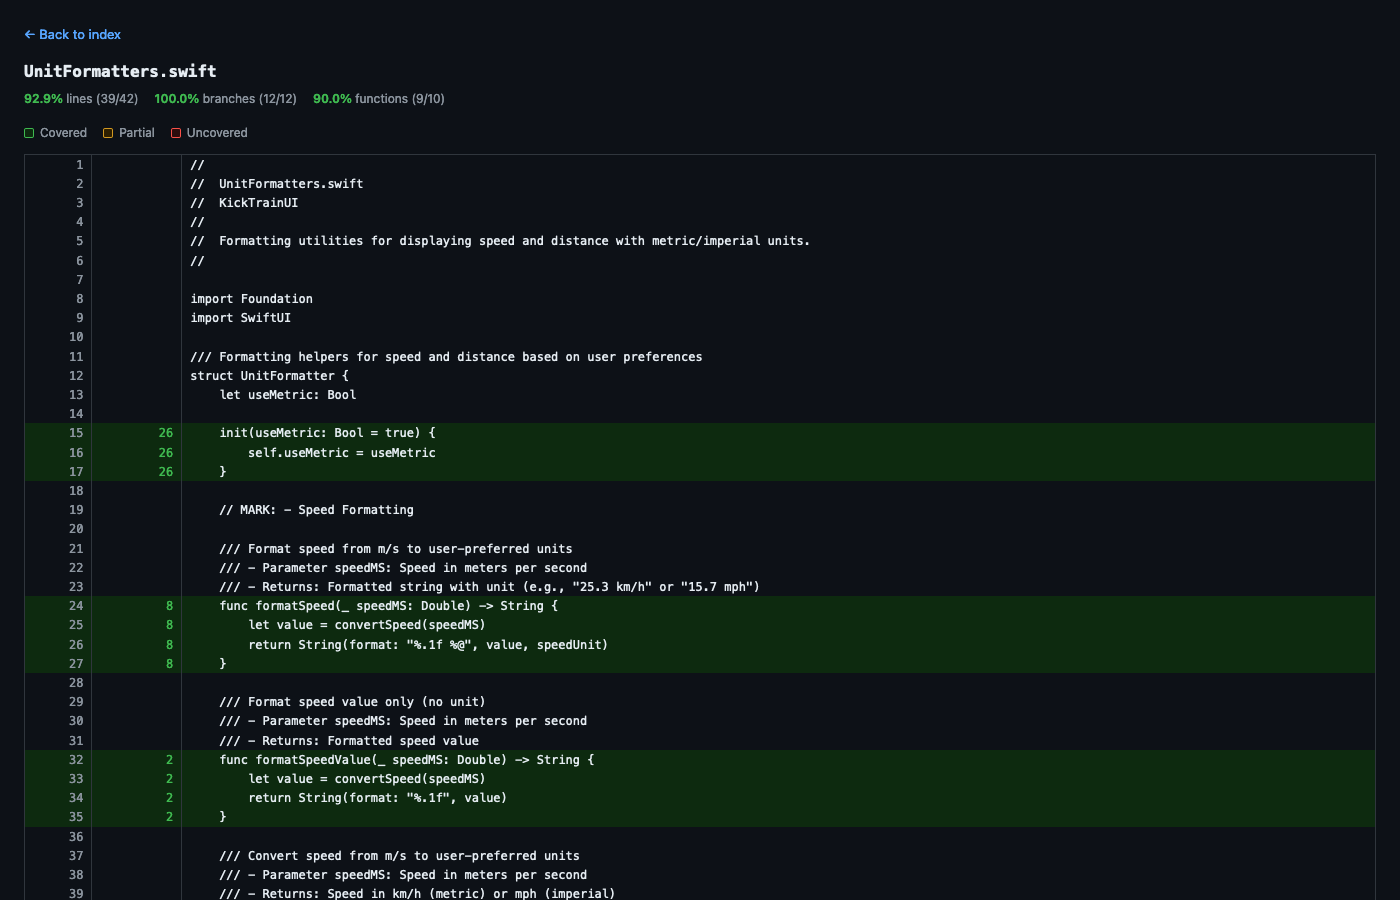
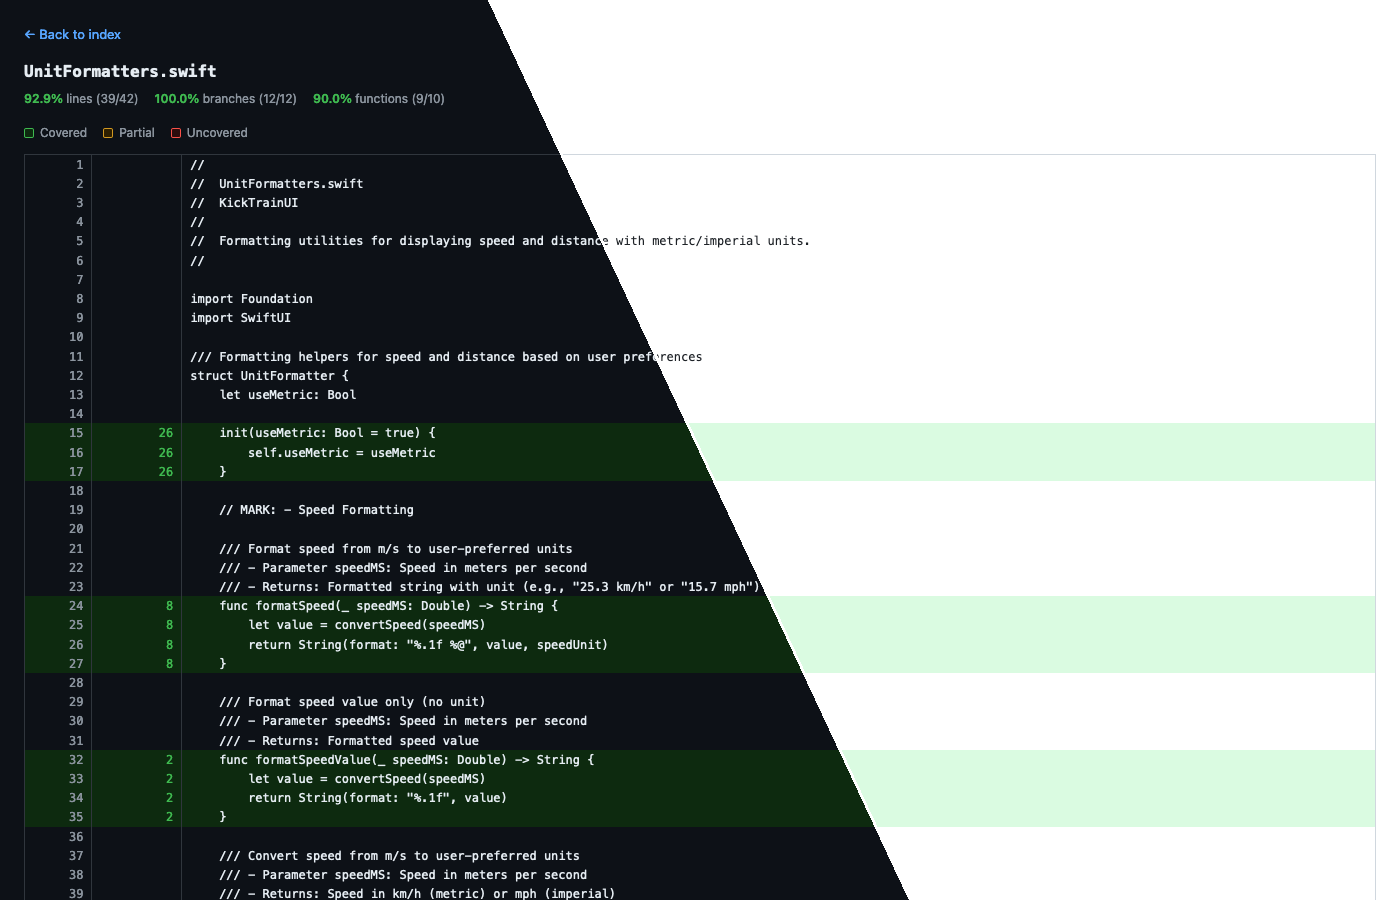
Add light mode support; update screenshots with dark/light diagonal composites

diff --git a/Sources/fullcoverage/Resources/style.css b/Sources/fullcoverage/Resources/style.css
@@ -6,18 +6,32 @@
   --border: #30363d;
   --text: #e6edf3;
   --muted: #8b949e;
-  --green: #238636;
   --green-bg: #0d2a0f;
   --green-text: #3fb950;
-  --yellow: #9e6a03;
   --yellow-bg: #2d1f00;
   --yellow-text: #d29922;
-  --red: #da3633;
   --red-bg: #2d0d0d;
   --red-text: #f85149;
   --link: #58a6ff;
   --font-mono: ui-monospace, SFMono-Regular, "SF Mono", Menlo, Consolas, monospace;
   --font-sans: -apple-system, BlinkMacSystemFont, "Segoe UI", Helvetica, Arial, sans-serif;
+}
+
+@media (prefers-color-scheme: light) {
+  :root {
+    --bg: #ffffff;
+    --surface: #f6f8fa;
+    --border: #d0d7de;
+    --text: #1f2328;
+    --muted: #656d76;
+    --green-bg: #dafbe1;
+    --green-text: #1a7f37;
+    --yellow-bg: #fff8c5;
+    --yellow-text: #9a6700;
+    --red-bg: #ffebe9;
+    --red-text: #d1242f;
+    --link: #0969da;
+  }
 }
 
 body {
@@ -183,11 +197,11 @@ a:hover { text-decoration: underline; }
 .source-code { padding-left: 12px; }
 
 /* Line coverage colors */
-tr.cov-green  { background: #0d2a0f; }
+tr.cov-green  { background: var(--green-bg); }
 tr.cov-green  .hit-count { color: var(--green-text); }
-tr.cov-yellow { background: #2d1f00; }
+tr.cov-yellow { background: var(--yellow-bg); }
 tr.cov-yellow .hit-count { color: var(--yellow-text); }
-tr.cov-red    { background: #2d0d0d; }
+tr.cov-red    { background: var(--red-bg); }
 tr.cov-red    .hit-count { color: var(--red-text); }
 
 /* ── Legend ─────────────────────────────────────────────────────────────── */
